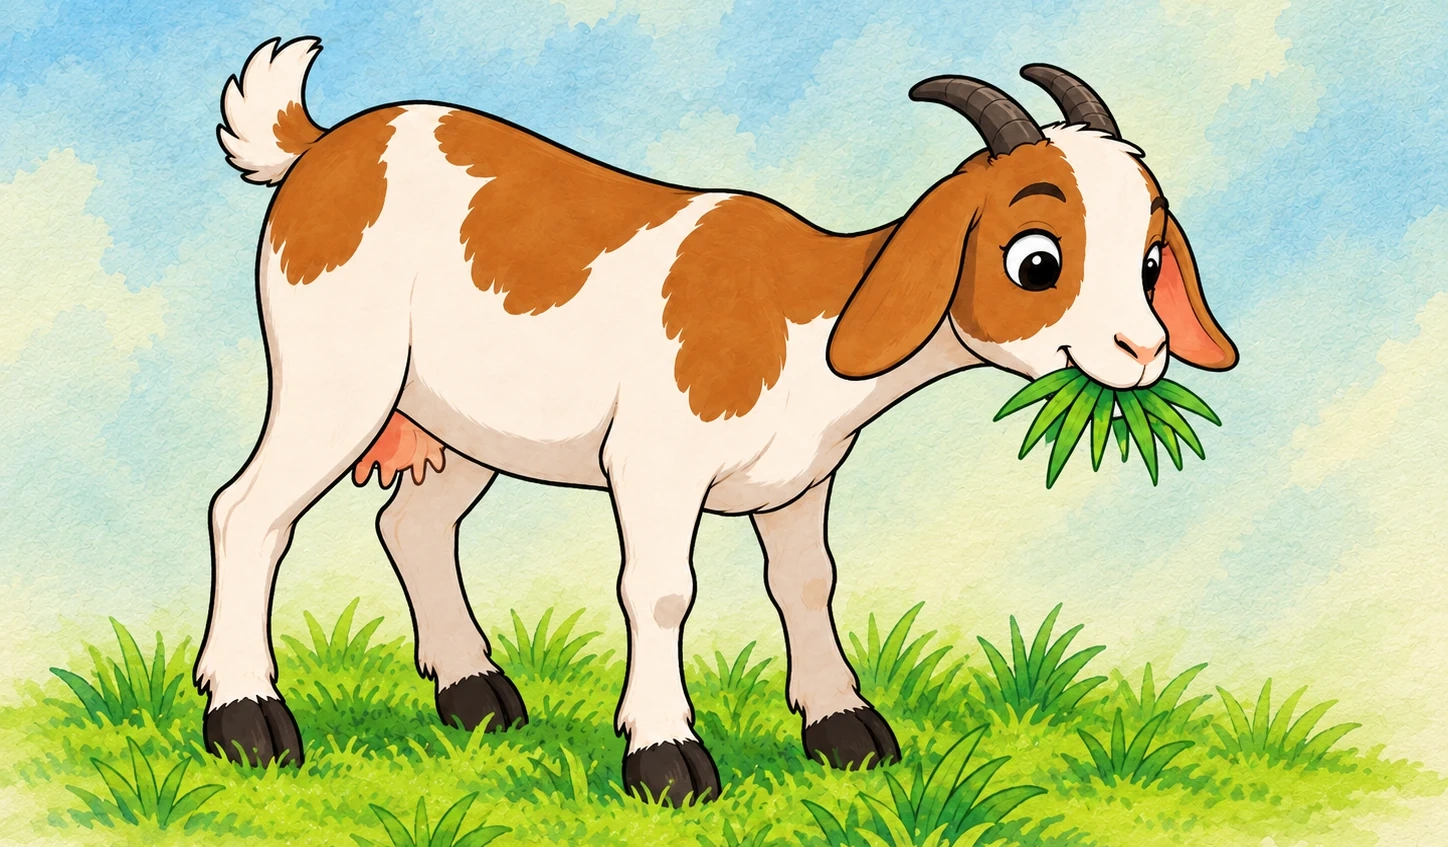
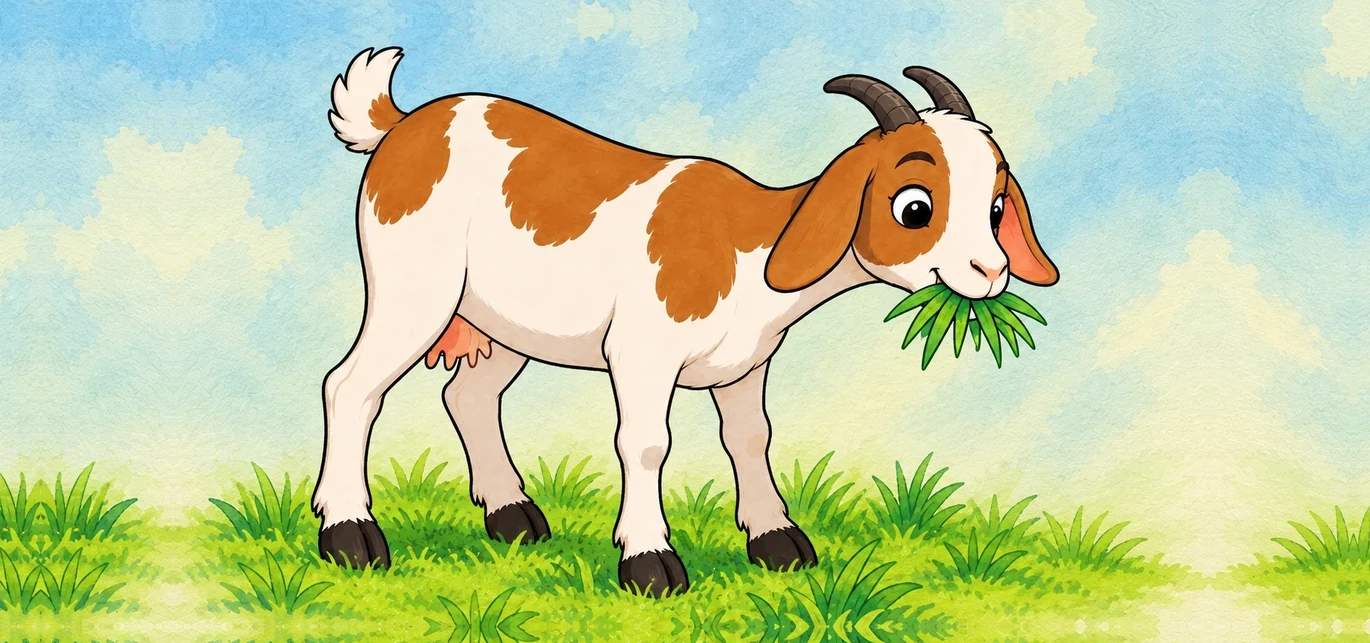
Update train cargo images for consistency in size and appearance

diff --git a/HI02H04_L01_S01/HI02H04_L01_S01.html b/HI02H04_L01_S01/HI02H04_L01_S01.html
@@ -9641,7 +9641,12 @@ html.rotated body.station-page::before{inset:auto;left:50%;top:50%;width:100vh;h
    own width (the train_cargo_* files are trimmed of empty sky / floor only: cat 215.8, goat 188.7, bird 235.2, dog 198.7, kite 179.8,
    grandpa 185.4px wide), centred on the box (left = its centre, translate -50%; the translate property, so the pop-in and the bounce,
    which animate transform, are untouched), never wider than the box. The filled box keeps no dashes (.ref-filled above), so the
-   coach's white window shows either side. P5's three ride in at mount; P6's are placed on landing by the module (inline left/width) */
+   coach's white window shows either side. P5's three ride in at mount; P6's are placed on landing by the module (inline left/width).
+   [P5-CARGO-EQUAL] (2026-10-21, user request) P5's three pictures are one size, the bird's: train_cargo_cat.webp and
+   train_cargo_goat.webp were re-cut to train_cargo_bird.webp's 1370x643, so all three show 235.2 x 110.4px. Nothing was cut from
+   either: the plain background was extended outward (mirrored edge bands of sky / floor / grass) - the cat at its sides only, the
+   goat also above and below so its tail tip and hooves clear the 3px grey stroke - and the canvas scaled to 1370x643. No rule here
+   changed; P6's pictures are untouched. */
 .stage.ref-figma .ref-panel .ref-cargo.ref-fit .ref-cargo-img,.stage.ref-figma .ref-panel .ref-cargo-img.ref-fit{width:auto;max-width:245.8px;translate:-50% 0;}
 .stage.ref-figma .ref-panel .ref-cargo.ref-fit .ref-cargo-img:nth-child(1){left:384.8px;}
 .stage.ref-figma .ref-panel .ref-cargo.ref-fit .ref-cargo-img:nth-child(2){left:674.3px;}
